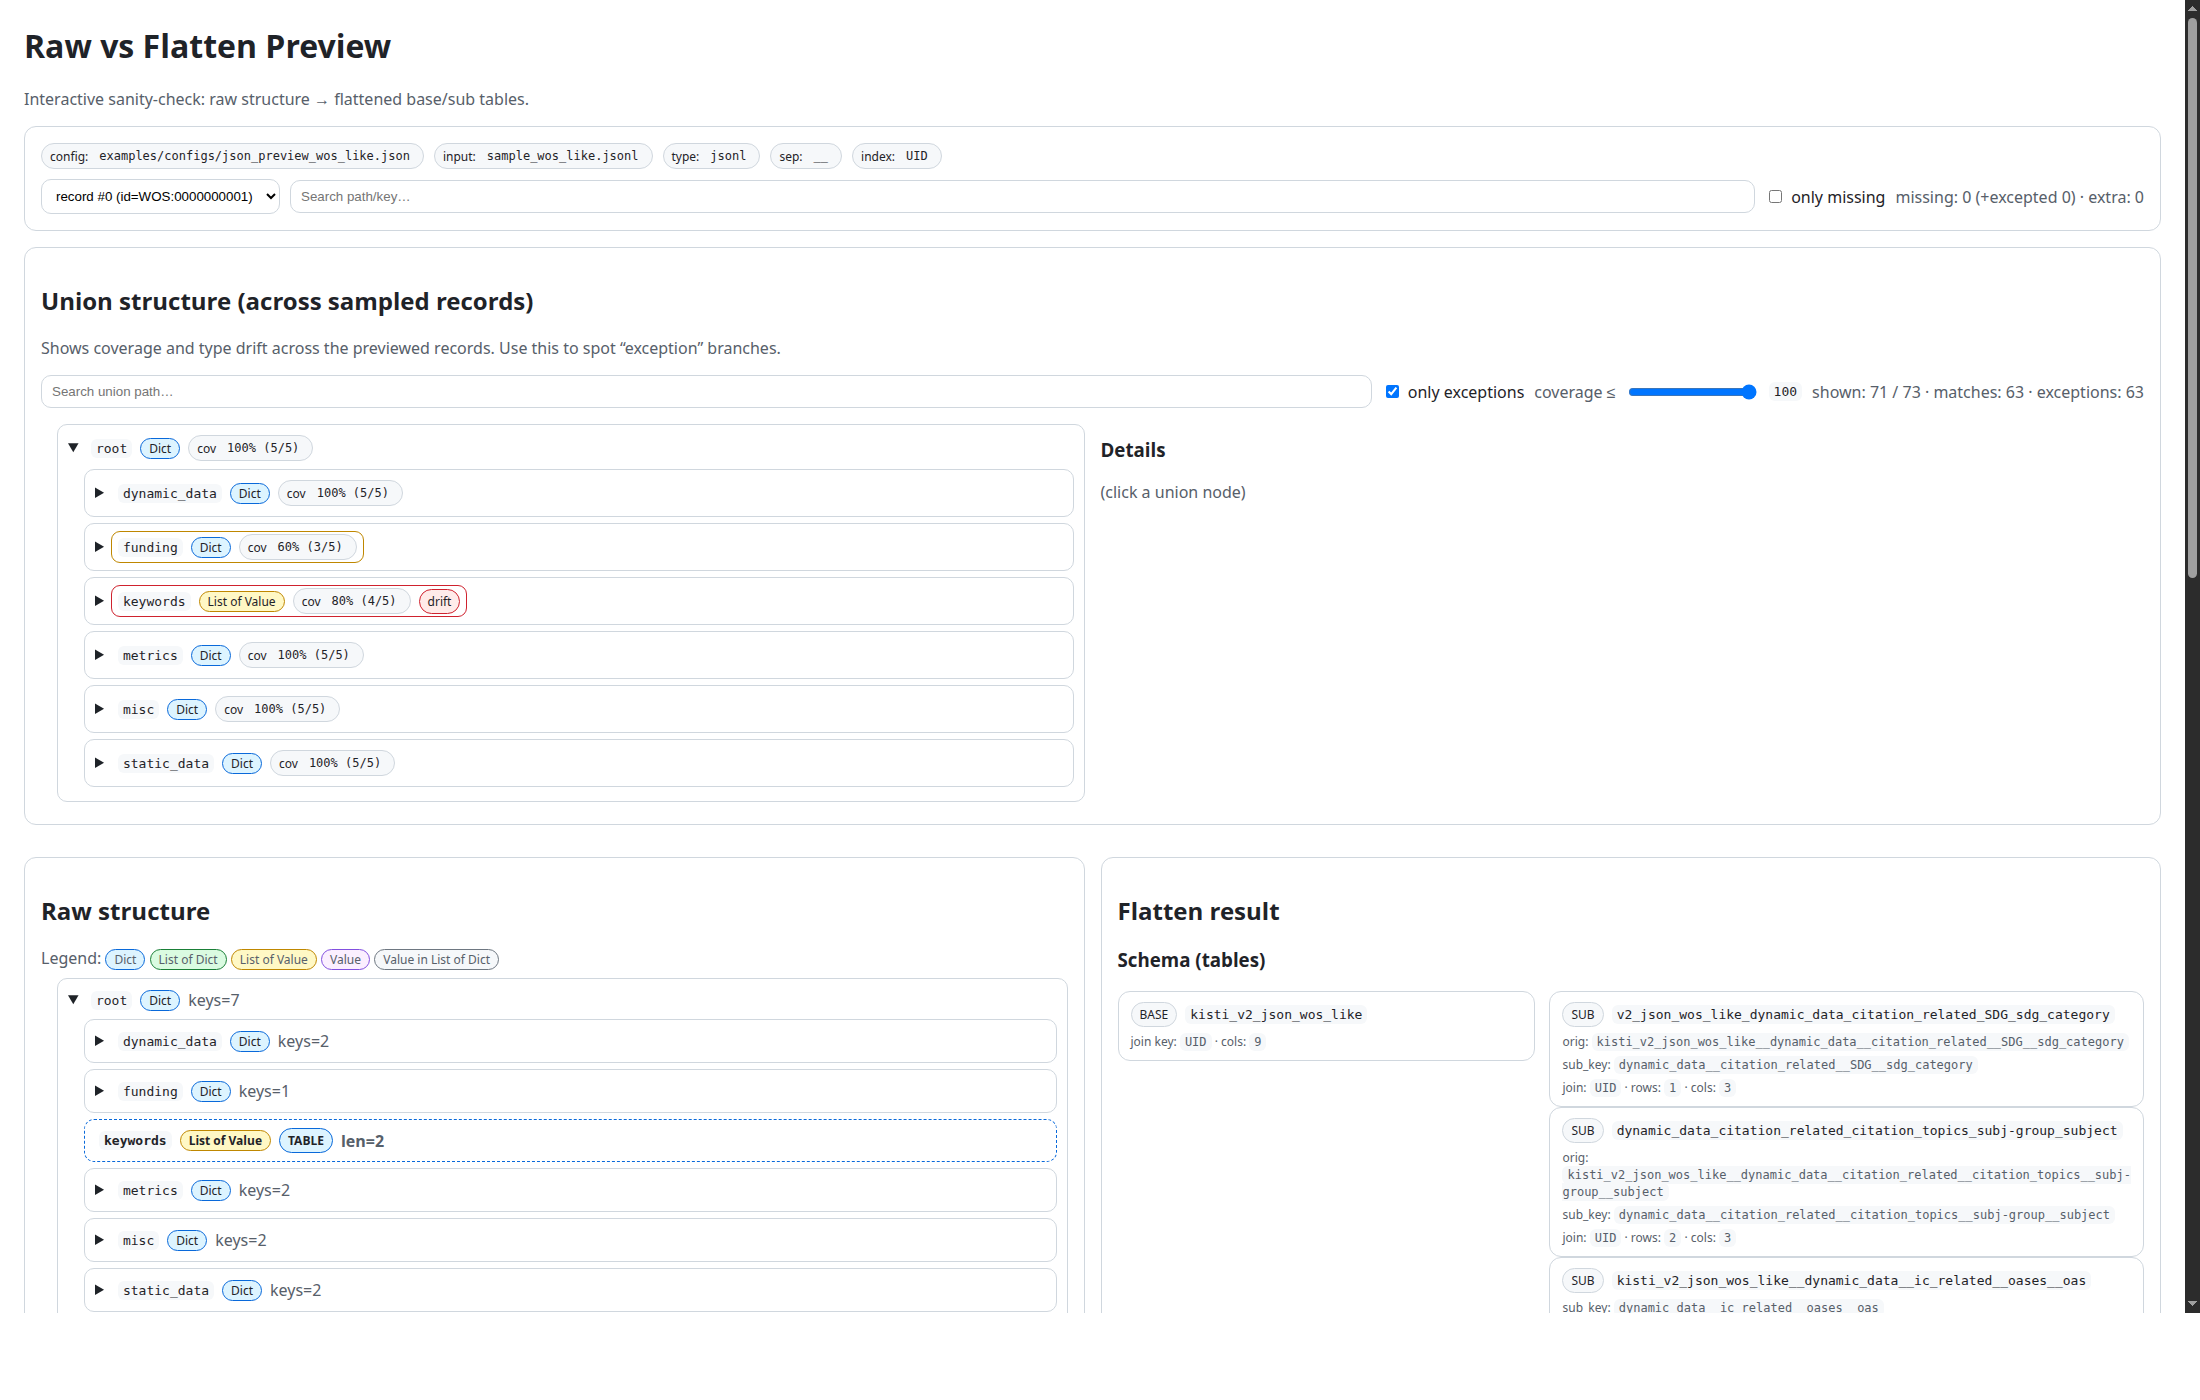
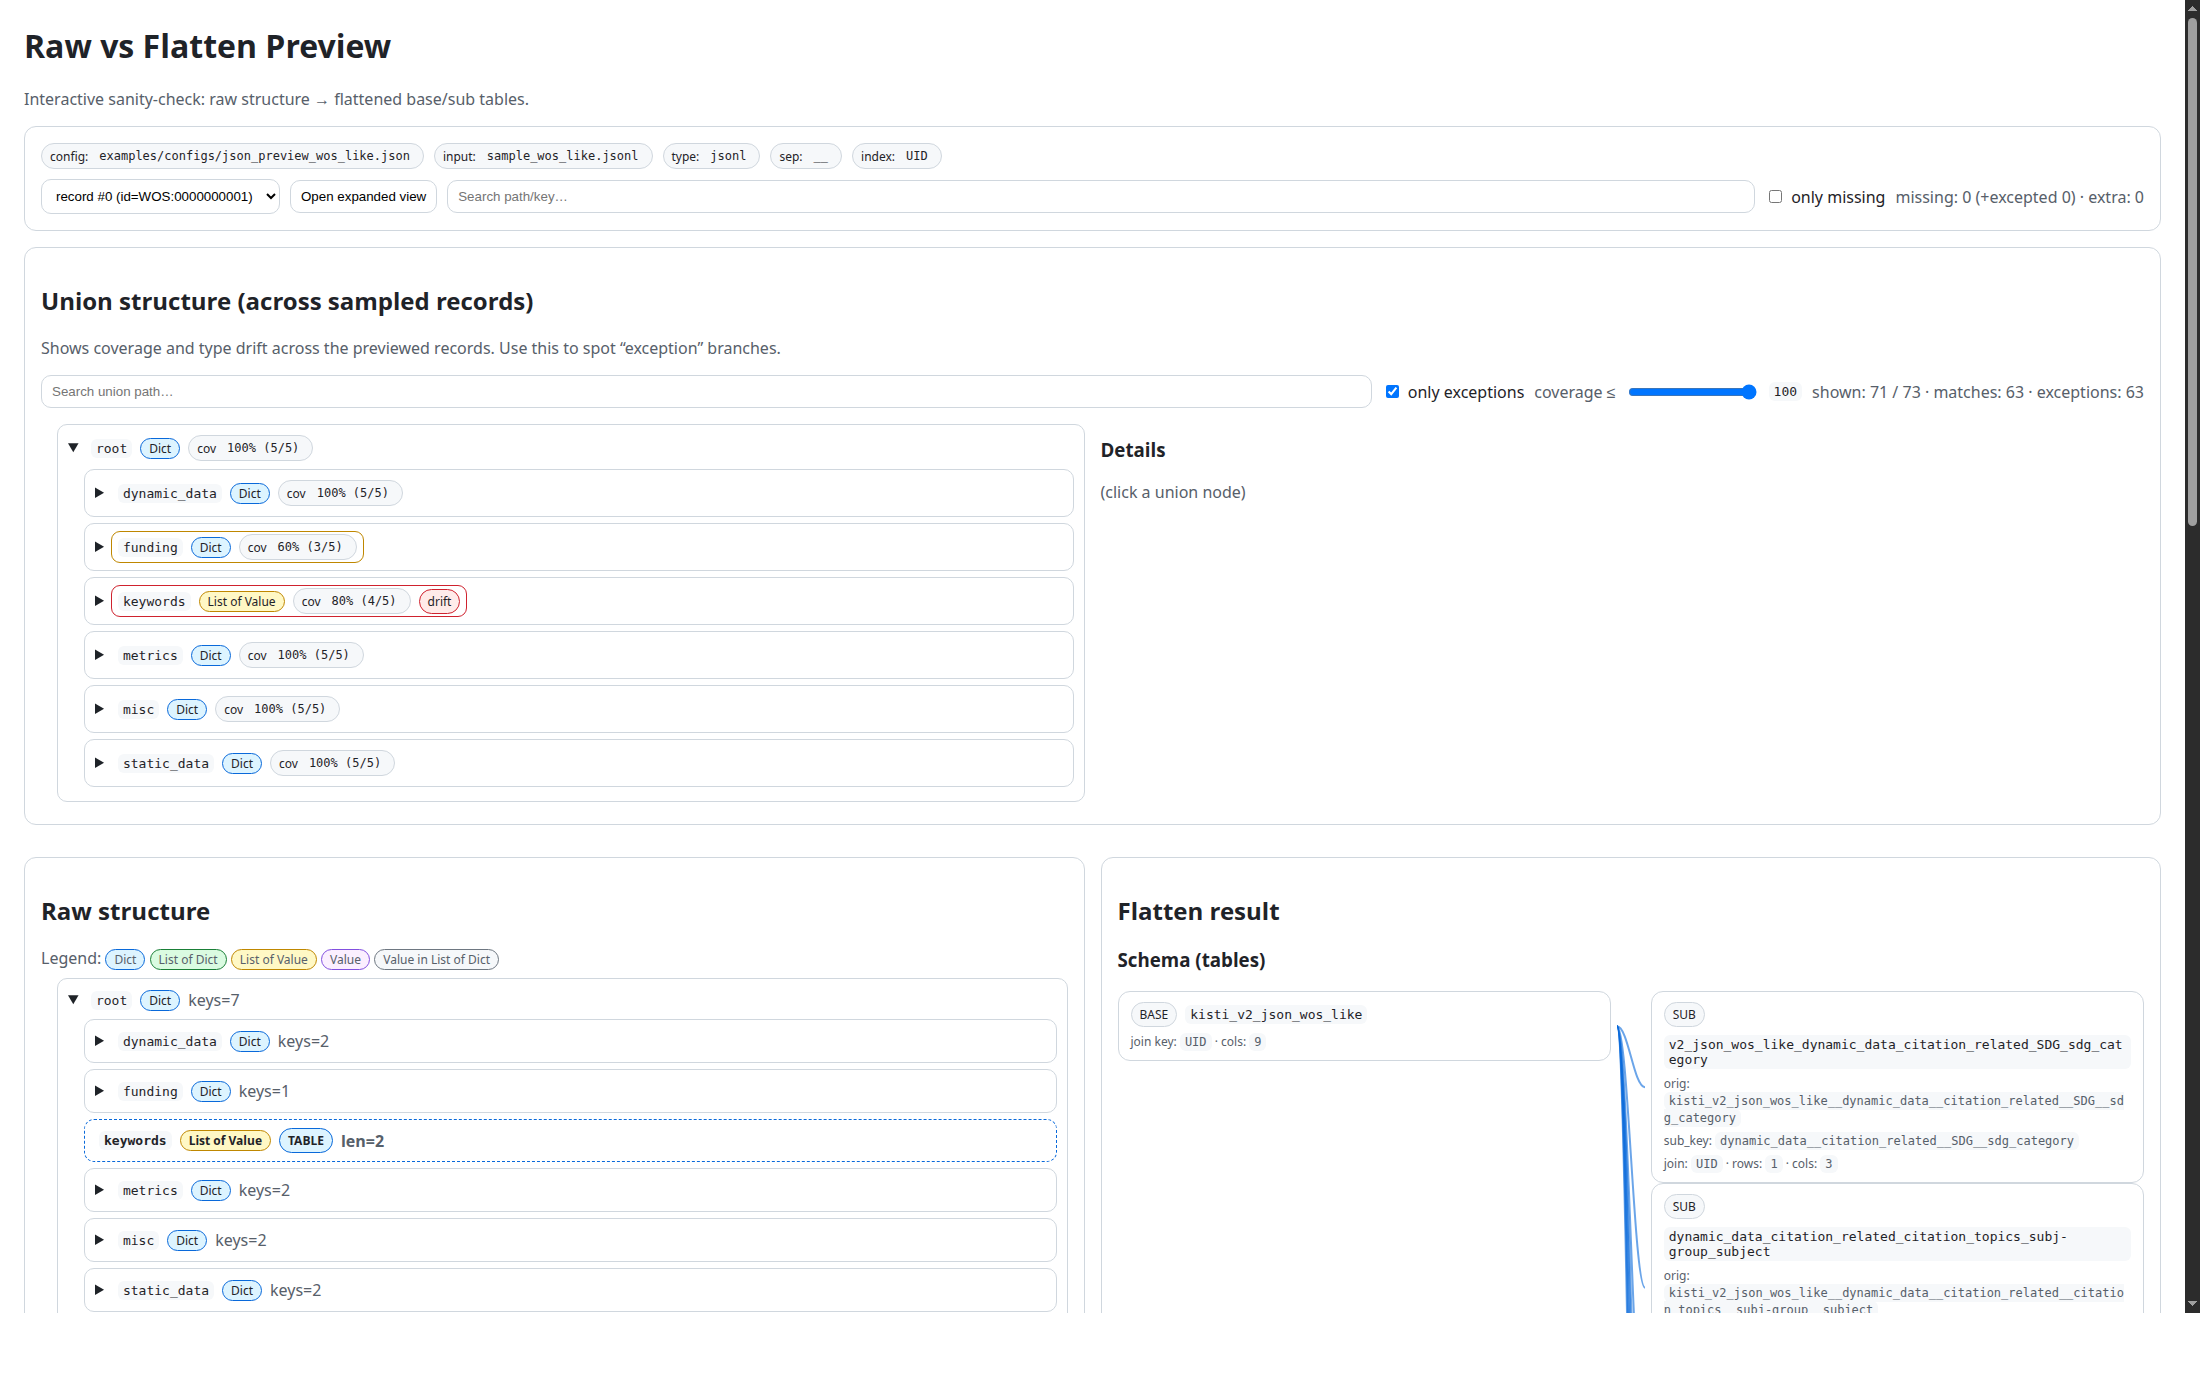
review preview: add schema connectors + expanded view

Changed region(s): [[0.7109, 0.7064, 0.9582, 0.9521], [0.1545, 0.1229, 0.2473, 0.1536], [0.9891, 0.3686, 1.0, 0.43]]

diff --git a/KISTI_DB_Manager/review_preview.py b/KISTI_DB_Manager/review_preview.py
@@ -794,11 +794,20 @@ def render_review_preview_html(*, meta: Mapping[str, Any], previews: list[dict[s
     .pill {{ display: inline-flex; gap: 6px; align-items: center; padding: 3px 8px; border: 1px solid #d0d7de; border-radius: 999px; background: #f6f8fa; font-size: 12px; }}
     .pill.pill-table {{ border-color: #0969da; background: #ddf4ff; }}
 
-    .schema-grid {{ display: grid; grid-template-columns: 1fr 1fr; gap: 14px; align-items: start; }}
+    .schema-wrap {{ position: relative; }}
+    .schema-lines {{ position: absolute; inset: 0; width: 100%; height: 100%; pointer-events: none; }}
+    .schema-line {{ stroke: #0969da; stroke-opacity: 0.6; stroke-width: 2; fill: none; }}
+
+    .btn {{ padding: 8px 10px; border: 1px solid #d0d7de; border-radius: 10px; background: #fff; cursor: pointer; }}
+    .btn:hover {{ background: #f6f8fa; }}
+
+    .schema-grid {{ display: grid; grid-template-columns: minmax(0, 1fr) minmax(0, 1fr); gap: 14px 40px; align-items: start; }}
+    .schema-grid > * {{ min-width: 0; }}
     @media (max-width: 1200px) {{ .schema-grid {{ grid-template-columns: 1fr; }} }}
     .schema-box {{ border: 1px solid #d0d7de; border-radius: 12px; padding: 10px 12px; background: #fff; cursor: pointer; }}
     .schema-box:hover {{ background: #f6f8fa; }}
     .schema-box.selected {{ outline: 2px solid #0969da; background: #eff6ff; }}
+    .schema-box code {{ white-space: normal; overflow-wrap: anywhere; }}
     .schema-title {{ display: flex; gap: 8px; align-items: center; flex-wrap: wrap; }}
     .schema-meta {{ margin-top: 6px; font-size: 12px; color: #57606a; }}
 
@@ -857,6 +866,7 @@ def render_review_preview_html(*, meta: Mapping[str, Any], previews: list[dict[s
     </div>
     <div style="margin-top: 10px;" class="toolbar">
       <select id="record-select"></select>
+      <button id="open-expanded" class="btn" type="button">Open expanded view</button>
       <input id="q" type="search" placeholder="Search path/key…" />
       <label><input id="only-missing" type="checkbox" /> only missing</label>
       <span id="status" class="muted"></span>
@@ -919,6 +929,7 @@ def render_review_preview_html(*, meta: Mapping[str, Any], previews: list[dict[s
     const q = document.getElementById('q');
     const onlyMissing = document.getElementById('only-missing');
     const status = document.getElementById('status');
+    const openExpanded = document.getElementById('open-expanded');
     const rawTree = document.getElementById('raw-tree');
     const flatView = document.getElementById('flat-view');
     const diffEl = document.getElementById('diff');
@@ -940,6 +951,9 @@ def render_review_preview_html(*, meta: Mapping[str, Any], previews: list[dict[s
     let schemaBaseKeys = [];
     let schemaBaseBox = null;
     let schemaSubBoxes = [];
+    let schemaWrapEl = null;
+    let schemaLinesEl = null;
+    let isExpandedView = false;
 
     function badgeClass(branchType) {{
       const t = String(branchType || '');
@@ -994,6 +1008,83 @@ def render_review_preview_html(*, meta: Mapping[str, Any], previews: list[dict[s
         }}
       }}
       return hits;
+    }}
+
+    function drawSchemaLines() {{
+      try {{
+        const wrap = schemaWrapEl || document.getElementById('schema-wrap');
+        const svg = schemaLinesEl || document.getElementById('schema-lines');
+        schemaWrapEl = wrap;
+        schemaLinesEl = svg;
+        if (!wrap || !svg) return;
+        svg.innerHTML = '';
+        if (!schemaBaseBox || !schemaSubBoxes || !schemaSubBoxes.length) return;
+
+        const subs = (schemaSubBoxes || []).map(x => x && x.el).filter(x => x && x.getBoundingClientRect);
+        if (!subs.length) return;
+
+        const wrapRect = wrap.getBoundingClientRect();
+        const baseRect = schemaBaseBox.getBoundingClientRect();
+        const minSubLeft = Math.min.apply(null, subs.map(el => el.getBoundingClientRect().left));
+
+        // Only draw connectors in 2-column layout (base left, subs right).
+        if (!(baseRect.right < (minSubLeft - 10))) return;
+
+        const w = Math.max(1, Math.round(wrapRect.width));
+        const h = Math.max(1, Math.round(wrapRect.height));
+        svg.setAttribute('viewBox', '0 0 ' + w + ' ' + h);
+        svg.setAttribute('width', String(w));
+        svg.setAttribute('height', String(h));
+
+        const sx0 = baseRect.right - wrapRect.left;
+        const sy = baseRect.top - wrapRect.top + baseRect.height / 2;
+
+        function addPath(d) {{
+          const p = document.createElementNS('http://www.w3.org/2000/svg', 'path');
+          p.setAttribute('d', d);
+          p.setAttribute('class', 'schema-line');
+          svg.appendChild(p);
+        }}
+
+        for (const el of subs) {{
+          const r = el.getBoundingClientRect();
+          const ex0 = r.left - wrapRect.left;
+          const ey = r.top - wrapRect.top + r.height / 2;
+          const dist0 = ex0 - sx0;
+          if (!(dist0 > 0)) continue;
+          const margin = Math.min(12, Math.max(2, dist0 * 0.15));
+          const sx = sx0 + margin;
+          const ex = ex0 - margin;
+          const dist = ex - sx;
+          if (!(dist > 0)) continue;
+          const x1 = sx + dist * 0.4;
+          const x2 = sx + dist * 0.6;
+          const d = 'M ' + sx + ' ' + sy + ' C ' + x1 + ' ' + sy + ', ' + x2 + ' ' + ey + ', ' + ex + ' ' + ey;
+          addPath(d);
+        }}
+      }} catch (e) {{
+        return;
+      }}
+    }}
+
+    function applyExpandedView() {{
+      // Keep union as-is (it can be large); focus on raw + subtables.
+      for (const d of document.querySelectorAll('#raw-tree details')) d.open = true;
+      for (const d of document.querySelectorAll('#flat-view details')) d.open = true;
+      for (const d of document.querySelectorAll('#diff details')) d.open = true;
+    }}
+
+    function openExpandedView() {{
+      try {{
+        const url = new URL(window.location.href);
+        url.searchParams.set('view', 'expanded');
+        url.searchParams.set('record', String(currentIndex || 0));
+        window.open(url.toString(), '_blank');
+      }} catch (e) {{
+        // Fallback: best-effort open same path with query params.
+        const rec = String(currentIndex || 0);
+        window.open(String(window.location.href).split('#')[0] + '?view=expanded&record=' + encodeURIComponent(rec), '_blank');
+      }}
     }}
 
     function clearUnionSelection() {{
@@ -1329,6 +1420,7 @@ def render_review_preview_html(*, meta: Mapping[str, Any], previews: list[dict[s
 
       let html = '';
       html += '<h3>Schema (tables)</h3>';
+      html += '<div class=\"schema-wrap\" id=\"schema-wrap\"><svg class=\"schema-lines\" id=\"schema-lines\"></svg>';
       html += '<div class=\"schema-grid\">';
       html += '<div class=\"schema-box\" data-schema-type=\"base\" title=\"' + String(baseTableOrig || baseTableSql).replace(/\"/g, '&quot;') + '\">' +
         '<div class=\"schema-title\"><span class=\"pill\">BASE</span> <code>' + String(baseTableSql || '(base)').replace(/</g, '&lt;') + '</code></div>' +
@@ -1355,6 +1447,7 @@ def render_review_preview_html(*, meta: Mapping[str, Any], previews: list[dict[s
           '</div>';
         }}
       }}
+      html += '</div>';
       html += '</div>';
       html += '</div>';
 
@@ -1430,6 +1523,8 @@ def render_review_preview_html(*, meta: Mapping[str, Any], previews: list[dict[s
           }}
         }});
       }}
+      drawSchemaLines();
+      setTimeout(drawSchemaLines, 0);
 
       for (const el of Array.from(document.querySelectorAll('.flat-key[data-key]'))) {{
         addKeyEl(el.getAttribute('data-key') || '', el);
@@ -1481,10 +1576,14 @@ def render_review_preview_html(*, meta: Mapping[str, Any], previews: list[dict[s
       renderFlat(pv.flatten || {{}}, pv.diff || null);
       renderDiff(pv.diff || null);
       applyQuery();
+      if (isExpandedView) applyExpandedView();
     }}
 
     function init() {{
       if (!sel) return;
+      const params = new URLSearchParams(window.location.search || '');
+      isExpandedView = String(params.get('view') || '') === 'expanded';
+      const initialRecord = params.get('record');
       sel.innerHTML = '';
       for (let i = 0; i < PREVIEWS.length; i++) {{
         const pv = PREVIEWS[i] || {{}};
@@ -1500,8 +1599,19 @@ def render_review_preview_html(*, meta: Mapping[str, Any], previews: list[dict[s
       if (unionQ) unionQ.addEventListener('input', applyUnionFilter);
       if (unionOnlyExc) unionOnlyExc.addEventListener('change', applyUnionFilter);
       if (unionCov) unionCov.addEventListener('input', applyUnionFilter);
-      renderAll(0);
+      window.addEventListener('resize', () => requestAnimationFrame(drawSchemaLines));
+      if (openExpanded) openExpanded.addEventListener('click', openExpandedView);
+      renderAll(initialRecord != null ? initialRecord : 0);
+      try {{
+        if (initialRecord != null) sel.value = String(initialRecord);
+      }} catch (e) {{}}
       renderUnion();
+      if (isExpandedView) {{
+        setTimeout(() => {{
+          applyExpandedView();
+          drawSchemaLines();
+        }}, 0);
+      }}
     }}
 
     init();

diff --git a/examples/README.md b/examples/README.md
@@ -47,6 +47,14 @@ Union structure (scrolled to `#union` in the same page):
 
 ![Union structure preview](assets/json_20lists_preview_union.png)
 
+Expanded view (new tab):
+
+```bash
+open preview_out/preview.html?view=expanded&record=0
+```
+
+![Raw vs Flatten expanded view](assets/json_20lists_preview_expanded.png)
+
 ### Raw vs Flatten preview (schema drift / complex)
 
 This is a **synthetic WoS-like JSONL** sample intentionally containing:
@@ -60,6 +68,8 @@ kisti-db-manager review preview --config examples/configs/json_preview_wos_like.
 ![Raw vs Flatten preview (wos-like)](assets/json_wos_like_preview.png)
 
 ![Union structure preview (wos-like)](assets/json_wos_like_preview_union.png)
+
+![Raw vs Flatten expanded view (wos-like)](assets/json_wos_like_preview_expanded.png)
 
 ## Data_Sample schema (WoS)
 
